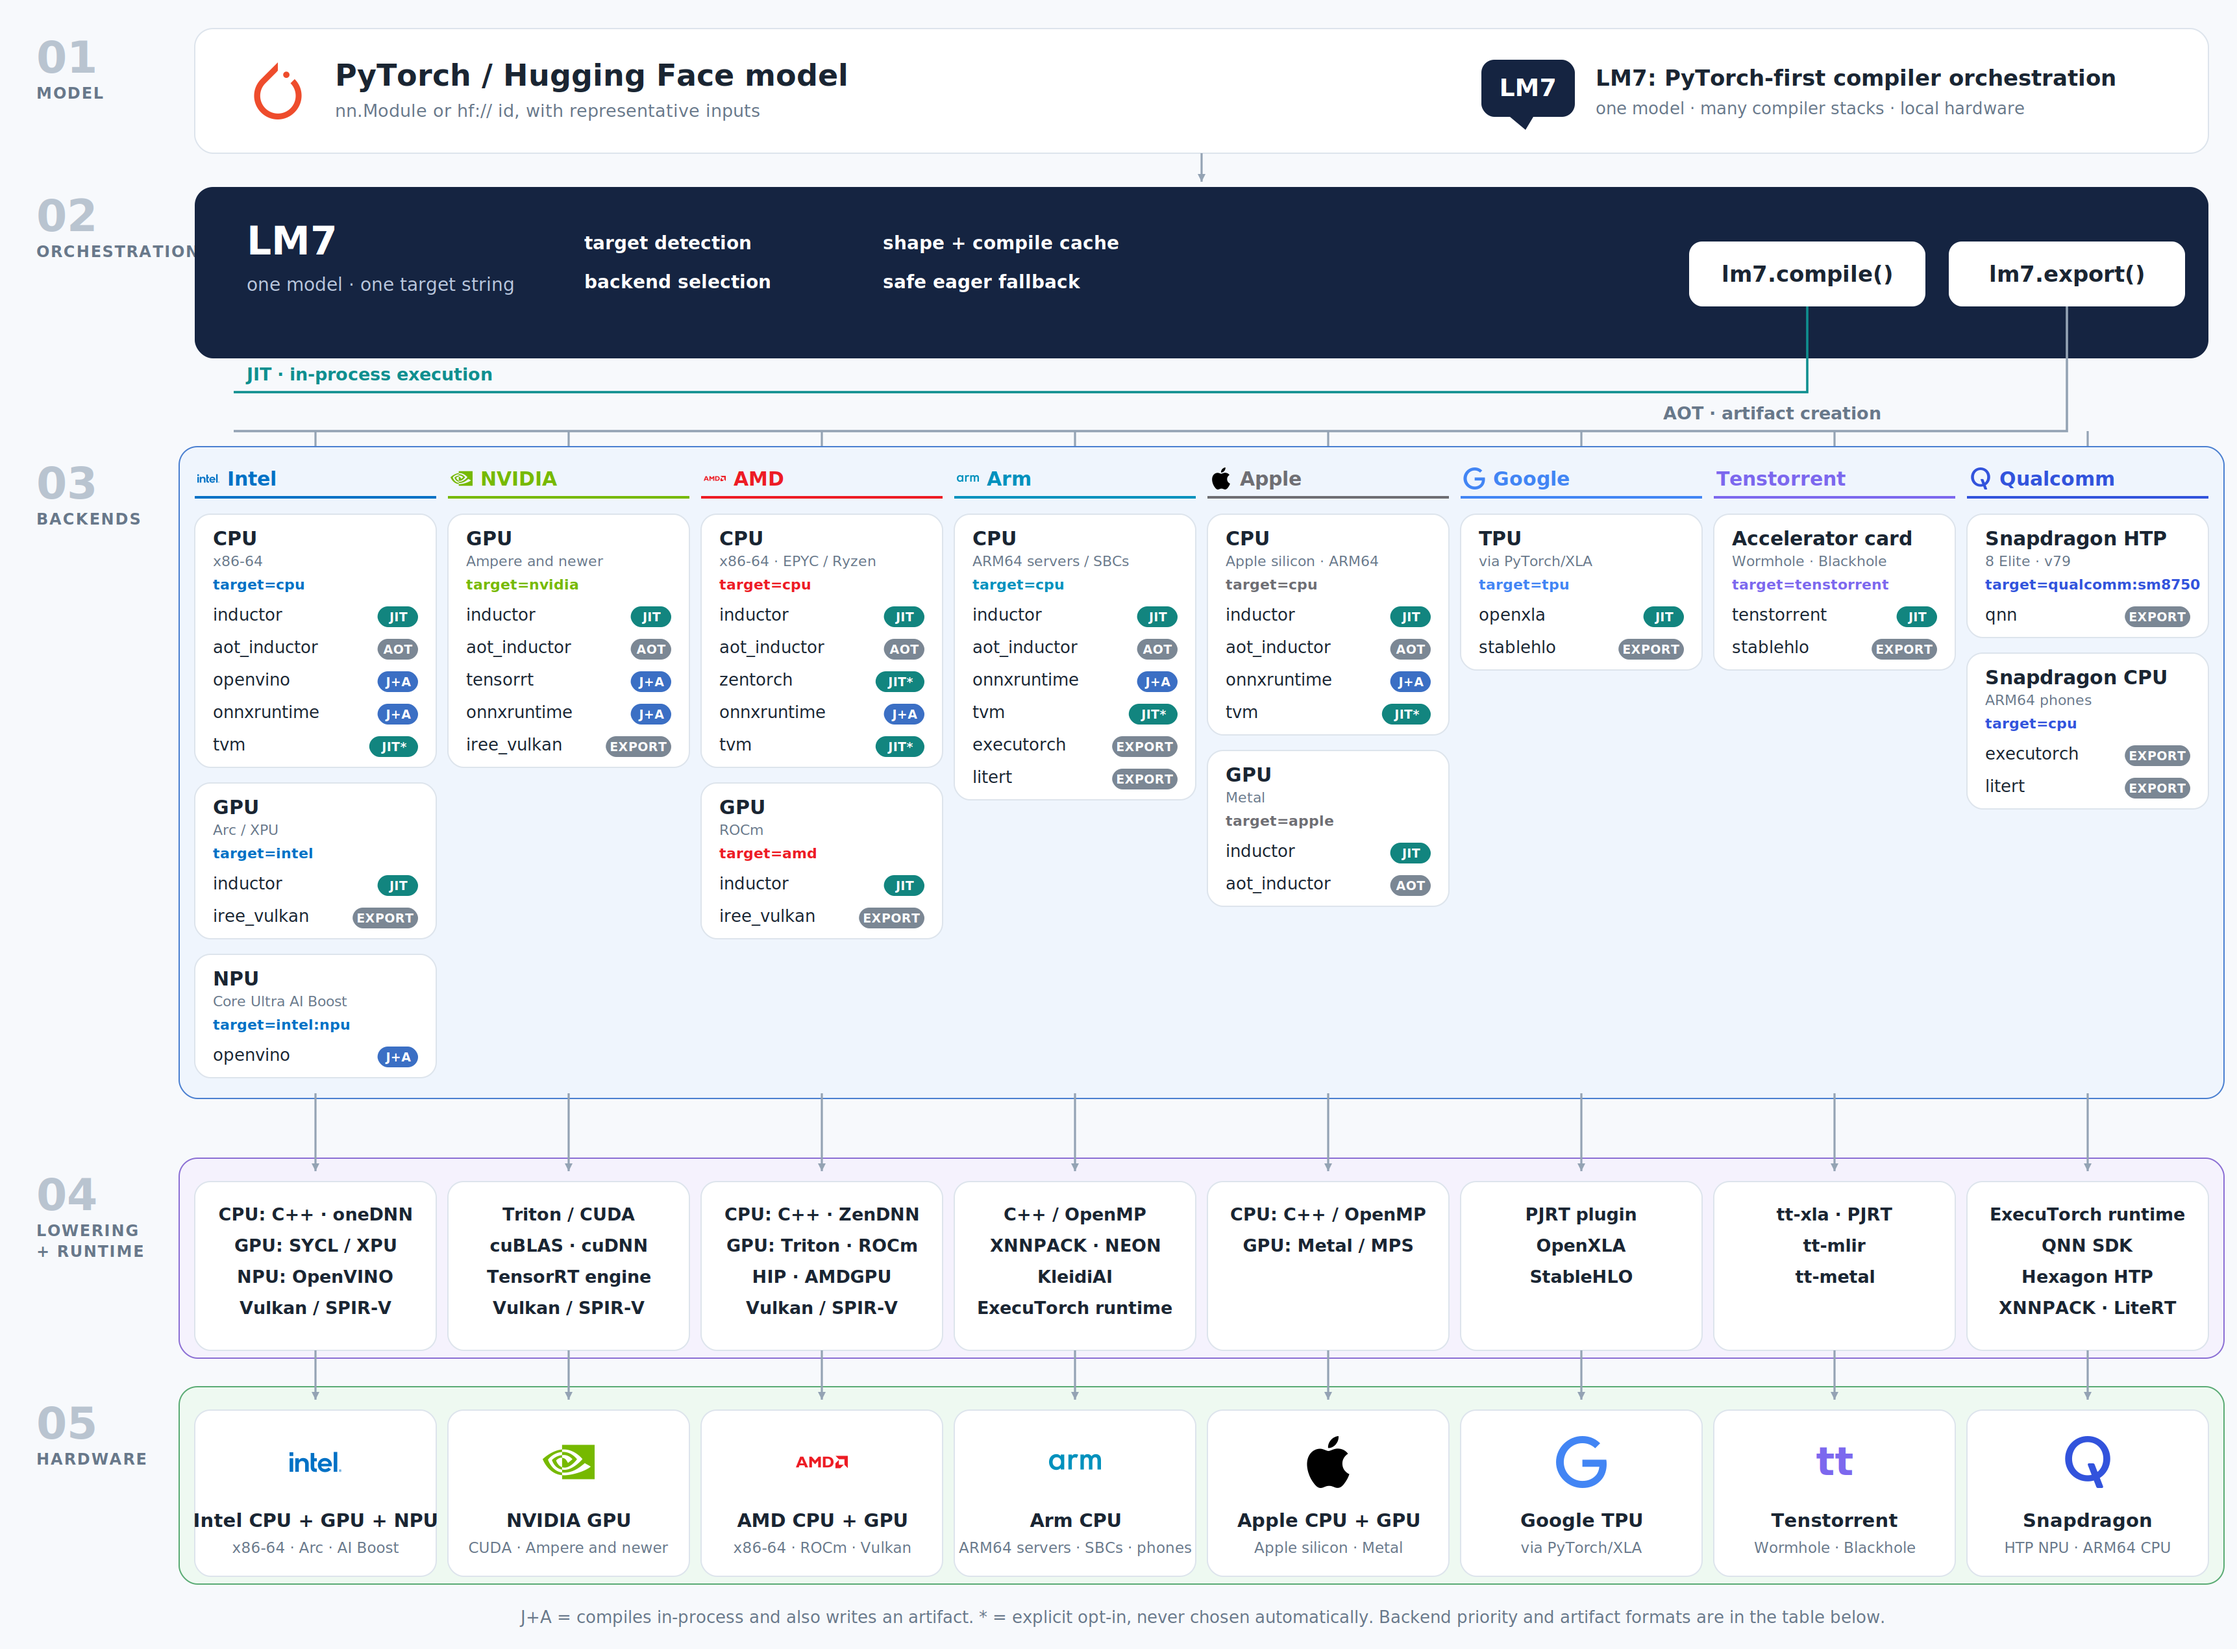
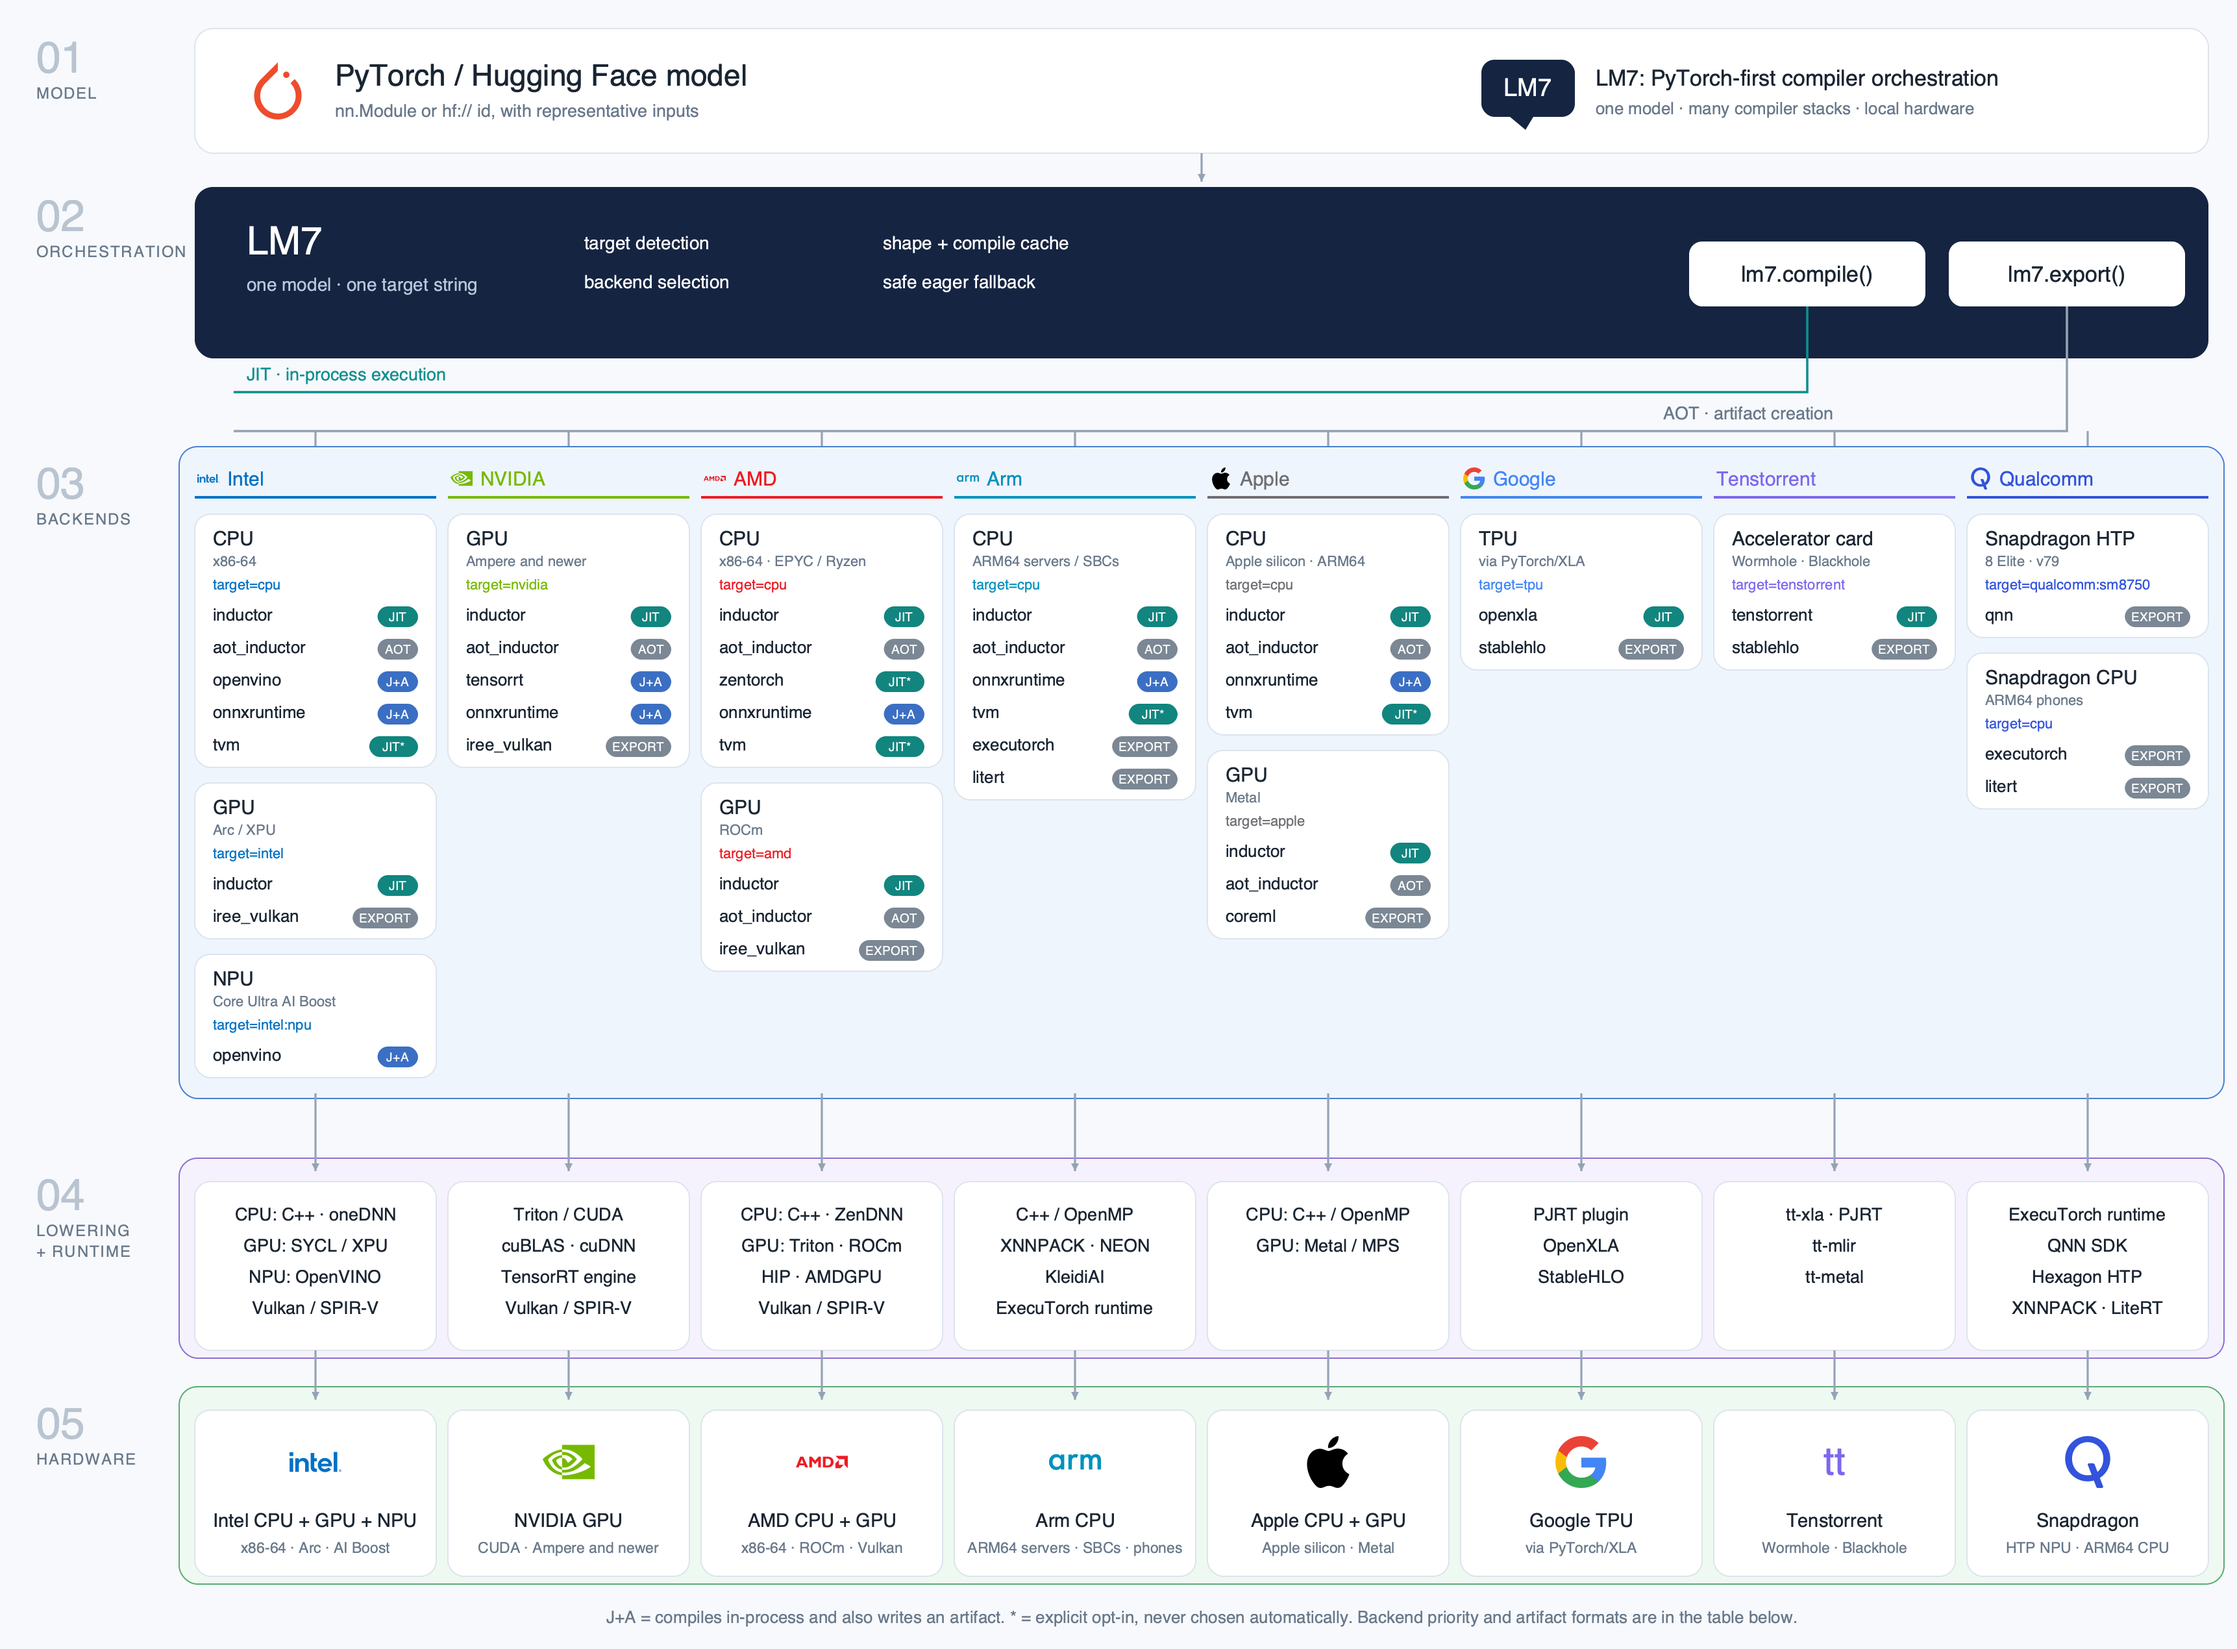
Update README architecture figure (#191)

diff --git a/docs/figures/architecture.py b/docs/figures/architecture.py
@@ -82,7 +82,7 @@ class Column:
 #
 # JIT   compiles in this process
 # AOT   writes a reloadable .lm7 artifact
-# J+A   does both
+# J+A   compiles in-process and also writes an artifact
 # *     explicit opt-in; automatic selection never picks it
 
 COLUMNS = [
@@ -149,7 +149,12 @@ COLUMNS = [
                     ("tvm", "JIT*"),
                 ],
             ),
-            Silicon("GPU", "ROCm", "amd", [("inductor", "JIT"), ("iree_vulkan", "EXPORT")]),
+            Silicon(
+                "GPU",
+                "ROCm",
+                "amd",
+                [("inductor", "JIT"), ("aot_inductor", "AOT"), ("iree_vulkan", "EXPORT")],
+            ),
         ],
         runtime=["CPU: C++ · ZenDNN", "GPU: Triton · ROCm", "HIP · AMDGPU", "Vulkan / SPIR-V"],
         hardware="AMD CPU + GPU",
@@ -194,7 +199,12 @@ COLUMNS = [
                     ("tvm", "JIT*"),
                 ],
             ),
-            Silicon("GPU", "Metal", "apple", [("inductor", "JIT"), ("aot_inductor", "AOT")]),
+            Silicon(
+                "GPU",
+                "Metal",
+                "apple",
+                [("inductor", "JIT"), ("aot_inductor", "AOT"), ("coreml", "EXPORT")],
+            ),
         ],
         runtime=["CPU: C++ / OpenMP", "GPU: Metal / MPS"],
         hardware="Apple CPU + GPU",
@@ -252,10 +262,10 @@ COLUMNS = [
 ]
 
 
-# Brand marks from Simple Icons (https://simpleicons.org). The path data is
-# CC0; the marks themselves remain the trademarks of their respective owners.
-# Each entry is the brand colour and a 24x24 viewBox path.
-LOGOS: dict[str, tuple[str, str]] = {
+# Brand marks use 24x24 viewBox paths. Simple Icons path data is CC0; the marks
+# themselves remain the trademarks of their respective owners. A logo entry is
+# either one coloured path or several coloured paths for multicolour marks.
+LOGOS: dict[str, tuple[str, str] | list[tuple[str, str]]] = {
     "pytorch": (
         "#EE4C2C",
         (
@@ -346,16 +356,39 @@ LOGOS: dict[str, tuple[str, str]] = {
             ".609-.924-.609-.396 0-.74.213-.954.508-.284.395-.314.984-.314 1.572v3.562h-1.573z"
         ),
     ),
-    "google": (
-        "#4285F4",
+    "google": [
         (
-            "M12.48 10.92v3.28h7.84c-.24 1.84-.853 3.187-1.787 4.133-1.147 1.147-2.933 2.4-6.053 "
-            "2.4-4.827 0-8.6-3.893-8.6-8.72s3.773-8.72 8.6-8.72c2.6 0 4.507 1.027 5.907 2.347l2.3"
-            "07-2.307C18.747 1.44 16.133 0 12.48 0 5.867 0 .307 5.387.307 12s5.56 12 12.173 12c3."
-            "573 0 6.267-1.173 8.373-3.36 2.16-2.16 2.84-5.213 2.84-7.667 0-.76-.053-1.467-.173-2"
-            ".053H12.48z"
+            "#4285F4",
+            (
+                "M23.49 12.27c0-.79-.07-1.54-.19-2.27H12v4.51h6.47c-.29 "
+                "1.48-1.14 2.73-2.4 3.58v2.98h3.86c2.26-2.08 3.56-5.15 "
+                "3.56-8.8z"
+            ),
         ),
-    ),
+        (
+            "#34A853",
+            (
+                "M12 24c3.24 0 5.95-1.08 7.93-2.93l-3.86-2.98c-1.08.72-2.45 "
+                "1.16-4.07 1.16-3.13 0-5.78-2.11-6.73-4.96H1.29v3.07C3.26 "
+                "21.25 7.29 24 12 24z"
+            ),
+        ),
+        (
+            "#FBBC05",
+            (
+                "M5.27 14.24c-.25-.72-.39-1.49-.39-2.24s.14-1.52.39-2.24V6."
+                "69H1.29C.47 8.31 0 10.1 0 12s.47 3.69 1.29 5.31l3.98-3.07z"
+            ),
+        ),
+        (
+            "#EA4335",
+            (
+                "M12 4.84c1.76 0 3.34.61 4.58 1.8L20 3.22C17.95 1.33 15.24 "
+                "0 12 0 7.29 0 3.26 2.75 1.29 6.69l3.98 3.07C6.22 6.95 "
+                "8.87 4.84 12 4.84z"
+            ),
+        ),
+    ],
     "qualcomm": (
         "#3253DC",
         (
@@ -401,15 +434,15 @@ def _rect(x, y, w, h, fill, stroke=None, r=10, width=1):
 
 
 def _logo(key, x, y, size):
-    colour, path = LOGOS[key]
-    return (
-        f'<g transform="translate({x} {y}) scale({size / 24:.4f})">'
-        f'<path d="{path}" fill="{colour}"/></g>'
-    )
+    paths = LOGOS[key]
+    if isinstance(paths, tuple):
+        paths = [paths]
+    body = "".join(f'<path d="{path}" fill="{colour}"/>' for colour, path in paths)
+    return f'<g transform="translate({x} {y}) scale({size / 24:.4f})">{body}</g>'
 
 
 def _pill(x, y, kind):
-    """Right-aligned badge. Width follows the label so J+A does not float."""
+    """Right-aligned badge. Width follows the label so longer badges do not float."""
     fg, bg = BADGE[kind]
     w = 12 + len(kind) * 6.4
     return (

diff --git a/docs/personal-ai-hardware.md b/docs/personal-ai-hardware.md
@@ -37,7 +37,7 @@ instead of spreading the branching logic through the application.
 | Intel AI PCs and mini PCs | OpenVINO for CPU/GPU/NPU | CPU paths are validated; `intel:npu` is integrated but still mock-tested. |
 | Arm Linux edge boxes | CPU Inductor, ONNX Runtime, OpenVINO, ExecuTorch | Arm Neoverse CPU and ExecuTorch paths are validated; small-board accelerators need device work. |
 | NVIDIA edge GPUs and Jetson | CUDA, TensorRT, ONNX Runtime, IREE Vulkan | NVIDIA GPUs are validated, but Jetson-specific validation and setup docs are still missing. |
-| AMD Ryzen/Radeon edge systems | ROCm, Vulkan/IREE, ONNX Runtime | AMD CPU is validated; ROCm GPU and AI-PC NPU coverage still need hardware runs. |
+| AMD Ryzen/Radeon edge systems | ROCm, Vulkan/IREE, ONNX Runtime | AMD CPU and one ROCm GPU path on MI300X are validated; Radeon and AI-PC NPU coverage still need hardware runs. |
 | Custom or emerging accelerators | StableHLO, IREE, TVM, MLIR/PJRT, vendor SDK | Useful integration direction; support depends on the vendor compiler exposing a usable bridge. |
 
 See [tested hardware](tested-hardware.md) for the exact physical machines that

diff --git a/README.md b/README.md
@@ -251,7 +251,7 @@ Edge and personal-device setup: [ExecuTorch](docs/executorch.md) ·
 | `inductor` | TorchInductor | JIT | CPU, NVIDIA, AMD, Intel GPU, Apple |
 | `openxla` | PyTorch/XLA + OpenXLA | JIT | TPU |
 | `tenstorrent` | tt-xla + tt-mlir + tt-metal | JIT | Tenstorrent |
-| `aot_inductor` | AOTInductor | AOT | CPU, NVIDIA, Apple |
+| `aot_inductor` | AOTInductor | AOT | CPU, NVIDIA, AMD, Apple |
 | `tensorrt` | Torch-TensorRT | JIT/AOT | NVIDIA |
 | `openvino` | OpenVINO | AOT | Intel CPU/NPU |
 | `onnxruntime` | ONNX Runtime | JIT/AOT | CPU, NVIDIA |

diff --git a/docs/changelog.md b/docs/changelog.md
@@ -167,3 +167,4 @@ file stays a index rather than a second, drifting description.
 | [#176](https://github.com/lmontigny/lm7/pull/176) | Give the MI300X runbook the three commands it was missing |
 | [#179](https://github.com/lmontigny/lm7/pull/179) | Add the changelog lines for the AMD campaign |
 | [#188](https://github.com/lmontigny/lm7/pull/188) | Refresh AMD ROCm validation docs |
+| [#189](https://github.com/lmontigny/lm7/pull/189) | Clean up MI300X validation docs |
